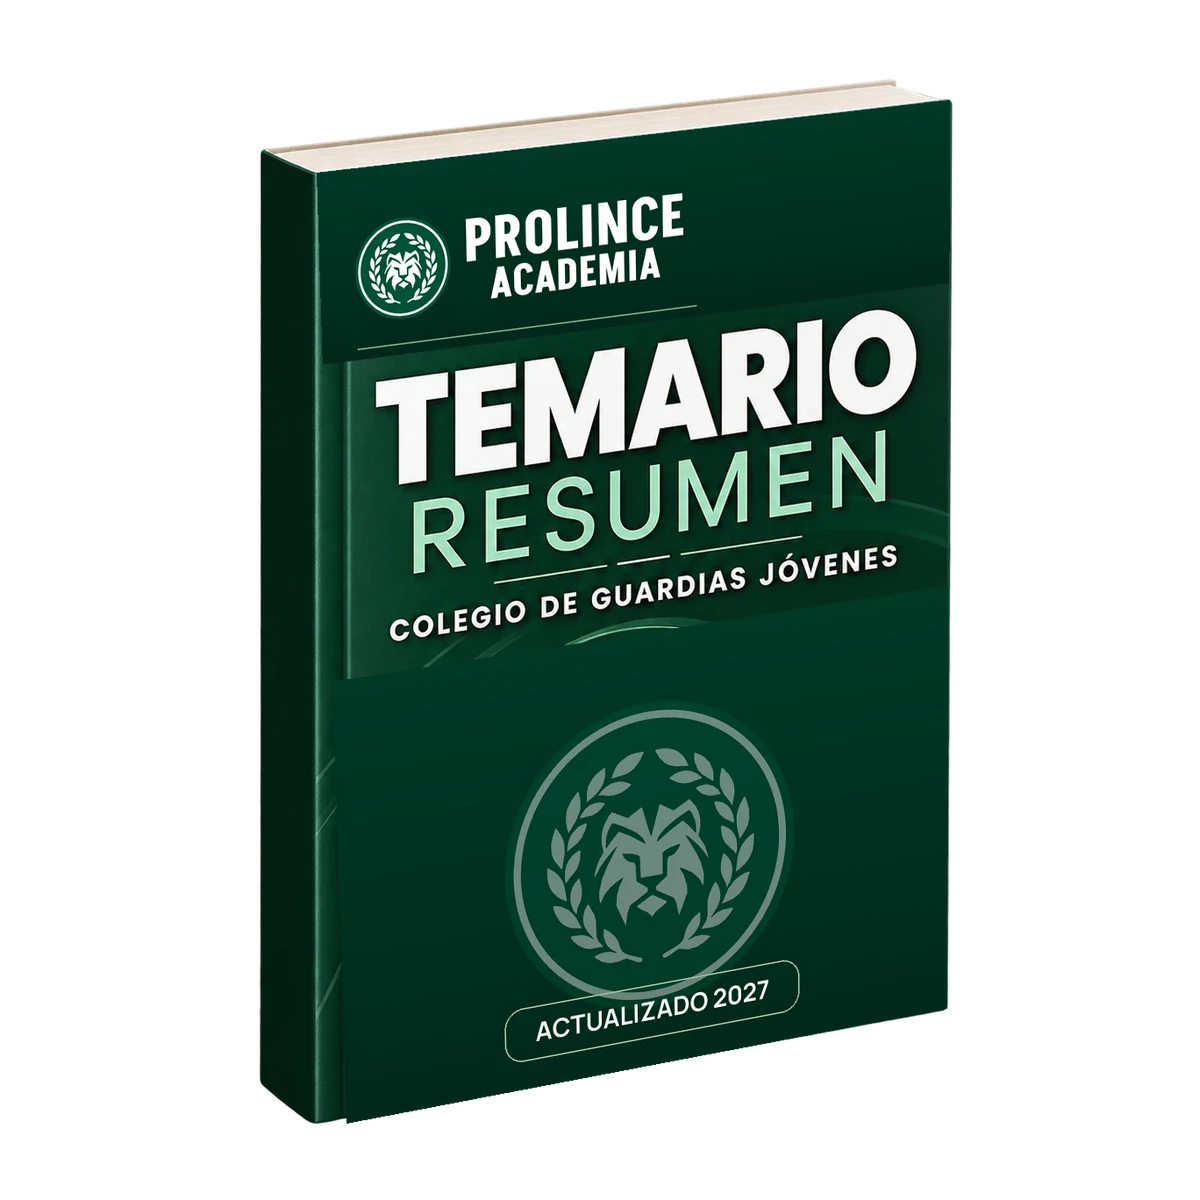
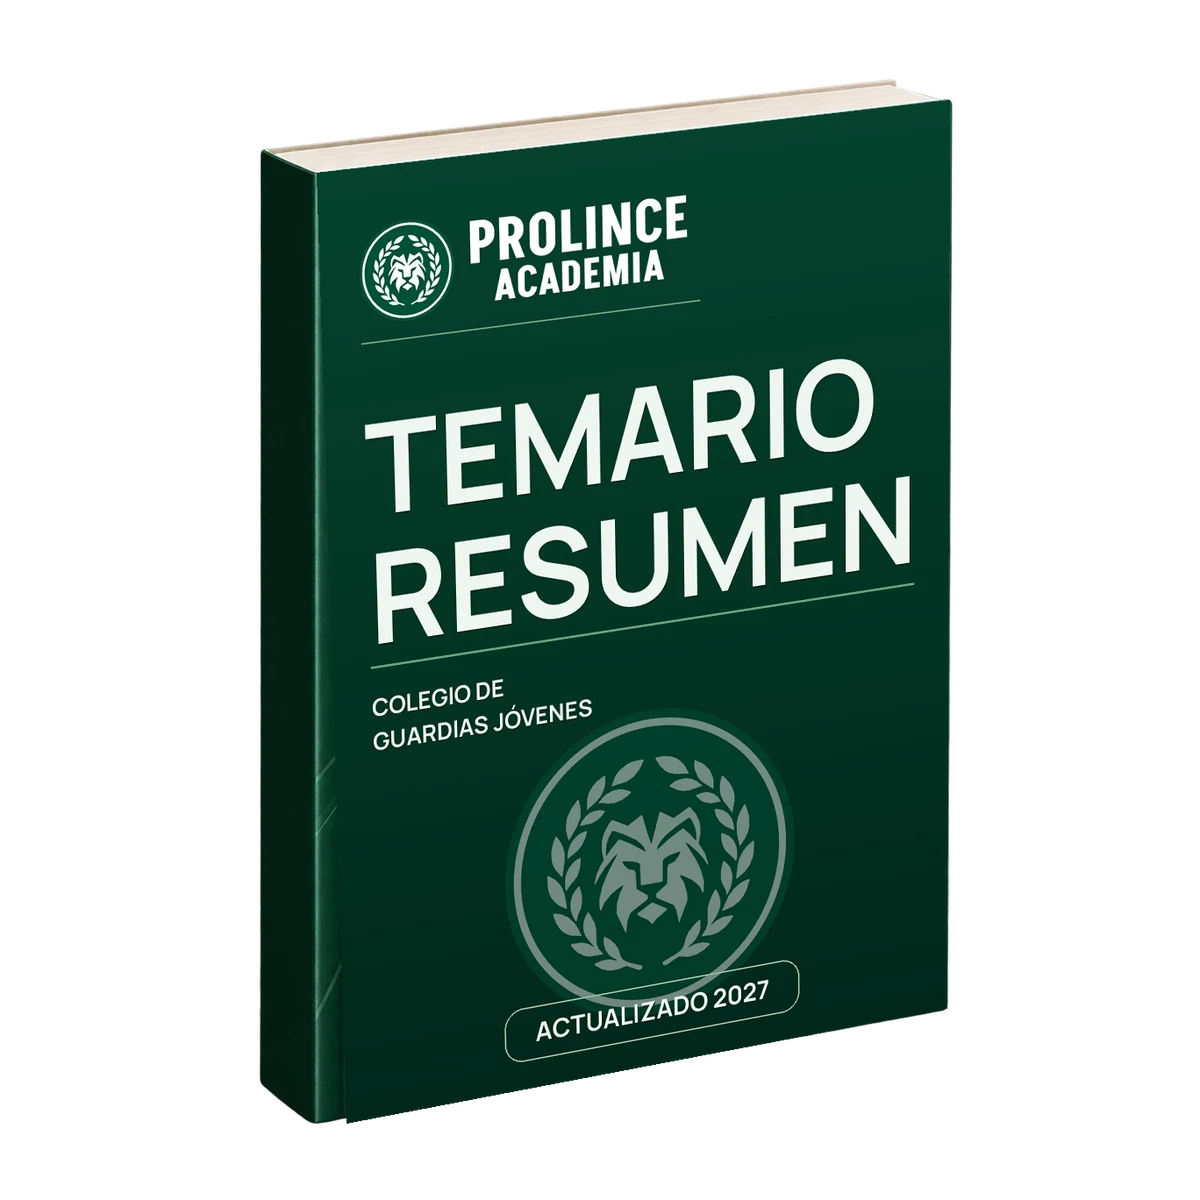
Recompone las cubiertas de temarios sin parches ni cortes visibles

Changed region(s): [[0.2775, 0.1542, 0.7708, 0.8633]]

diff --git a/scripts/generar-temarios-realistas.py b/scripts/generar-temarios-realistas.py
@@ -55,60 +55,83 @@ def perspective(source_size, target):
     return tuple(row[-1] for row in rows)
 
 
-def fondo(cubierta, top, bottom):
-    """Limpia la marca recreada; mantiene un degradado suave sobre el papel mate."""
-    draw = ImageDraw.Draw(cubierta)
-    for y in range(top, bottom):
-        t = (y - top) / max(1, bottom - top)
-        color = tuple(round(a * (1 - t) + b * t) for a, b in zip((0, 57, 39), (0, 40, 27)))
+def cubierta_provisional(kind, name, logo, isotipo):
+    """Una única cubierta continua: fondo, tipografía y marca comparten perspectiva."""
+    flat = Image.new('RGBA', (840, 1188))
+    draw = ImageDraw.Draw(flat)
+    for y in range(1188):
+        t = y / 1187
+        color = tuple(round(a * (1 - t) + b * t) for a, b in zip((5, 66, 46), (0, 39, 27)))
         draw.line((0, y, 839, y), fill=(*color, 255))
+
+    def font(size):
+        return ImageFont.truetype(str(SOURCES / 'Manrope-Bold.ttf'), size)
+
+    def label(x, y, value, size, anchor='la'):
+        draw.text((x + 1, y + 2), value, font=font(size), fill='#002A1D', anchor=anchor)
+        draw.text((x, y), value, font=font(size), fill='#EEF6F0', anchor=anchor)
+
+    if kind == 'resumen':
+        logo_x, logo_y, logo_w = 50, 65, 445
+        seal_x, seal_y, seal_w = 220, 720, 400
+        label(50, 255, 'TEMARIO', 156)
+        label(50, 415, 'RESUMEN', 156)
+        draw.line((50, 610, 790, 610), fill='#659D7B', width=3)
+        if name.startswith('gc-'):
+            label(50, 650, 'GUARDIA CIVIL', 34)
+        else:
+            label(50, 640, 'COLEGIO DE', 30)
+            label(50, 683, 'GUARDIAS JÓVENES', 30)
+        badge_x, badge_w, footer_size = 215, 410, 34
+    elif kind == 'ingles':
+        logo_x, logo_y, logo_w = 30, 65, 330
+        seal_x, seal_y, seal_w = 40, 700, 305
+        label(30, 270, 'TEMARIO', 78)
+        label(30, 370, 'INGLÉS', 78)
+        draw.line((30, 475, 360, 475), fill='#659D7B', width=2)
+        if name.startswith('gc-'):
+            label(30, 515, 'GUARDIA CIVIL', 28)
+        else:
+            label(30, 510, 'COLEGIO DE', 24)
+            label(30, 555, 'GUARDIAS JÓVENES', 24)
+        badge_x, badge_w, footer_size = 25, 335, 27
+    else:
+        logo_x, logo_y, logo_w = 535, 62, 280
+        seal_x, seal_y, seal_w = 550, 710, 260
+        # Se reduce el tamaño de fuente, nunca la anchura de las letras.
+        label(676, 270, 'ORTOGRAFÍA', 42, 'mm')
+        label(676, 340, 'Y GRAMÁTICA', 42, 'mm')
+        draw.line((530, 435, 820, 435), fill='#659D7B', width=2)
+        if name.startswith('gc-'):
+            label(676, 520, 'GUARDIA CIVIL', 24, 'mm')
+        else:
+            label(676, 500, 'COLEGIO DE', 23, 'mm')
+            label(676, 555, 'GUARDIAS JÓVENES', 22, 'mm')
+        badge_x, badge_w, footer_size = 530, 295, 23
+    flat.alpha_composite(logo.resize((logo_w, round(logo_w * logo.height / logo.width)), Image.Resampling.LANCZOS), (logo_x, logo_y))
+    seal = isotipo.resize((seal_w, seal_w), Image.Resampling.LANCZOS)
+    seal.putalpha(seal.getchannel('A').point(lambda a: round(a * .44)))
+    flat.alpha_composite(seal, (seal_x, seal_y))
+    draw = ImageDraw.Draw(flat)
+    draw.line((logo_x, 210 if kind == 'resumen' else 185 if kind == 'ingles' else 170,
+               logo_x + logo_w, 210 if kind == 'resumen' else 185 if kind == 'ingles' else 170), fill='#659D7B', width=2)
+    draw.rounded_rectangle((badge_x, 1080, badge_x + badge_w, 1150), radius=25, outline='#91BAA1', width=2)
+    label(badge_x + badge_w / 2, 1114, 'ACTUALIZADO 2027', footer_size, 'mm')
+    return flat
 
 
 def marca_oficial(image, name, logo, isotipo):
-    """Inserta los SVG oficiales; nunca vuelve a generar el león ni el wordmark."""
+    """Proyecta cada cubierta de una pieza; conserva cantos, lomos y sombras."""
     for plane, visible, kind in PROVISIONAL[name]:
-        quad = [plane[i] for i in (0, 3, 2, 1)]
-        flat = image.transform((840, 1188), Image.Transform.QUAD,
-            tuple(v for point in quad for v in point), Image.Resampling.BICUBIC)
-        mask = Image.new('L', flat.size)
-        mask_draw = ImageDraw.Draw(mask)
-        if kind == 'resumen':
-            header_bottom, lower_top = 230, 690 if name.startswith('gc-') else 620
-            logo_x, logo_y, logo_w = 45, 62, 445
-            seal_x, seal_y, seal_w = 220, 710, 400
-            badge_x, badge_w, font_size = 215, 410, 34
-        elif kind == 'ingles':
-            header_bottom, lower_top = 210, 610
-            logo_x, logo_y, logo_w = 30, 65, 330
-            seal_x, seal_y, seal_w = 35, 690, 310
-            badge_x, badge_w, font_size = 25, 335, 27
-        else:
-            header_bottom, lower_top = 180, 585
-            logo_x, logo_y, logo_w = 535, 62, 280
-            seal_x, seal_y, seal_w = 545, 700, 265
-            badge_x, badge_w, font_size = 530, 295, 23
-        fondo(flat, 0, header_bottom)
-        fondo(flat, lower_top, 1188)
-        flat.alpha_composite(logo.resize((logo_w, round(logo_w * logo.height / logo.width)), Image.Resampling.LANCZOS), (logo_x, logo_y))
-        seal = isotipo.resize((seal_w, seal_w), Image.Resampling.LANCZOS)
-        seal.putalpha(seal.getchannel('A').point(lambda a: round(a * .42)))
-        flat.alpha_composite(seal, (seal_x, seal_y))
-        draw = ImageDraw.Draw(flat)
-        draw.line((logo_x, header_bottom - 14, logo_x + logo_w, header_bottom - 14), fill='#699C7F', width=2)
-        draw.rounded_rectangle((badge_x, 1080, badge_x + badge_w, 1150), radius=25, outline='#91BAA1', width=2)
-        font = ImageFont.truetype(str(SOURCES / 'Manrope-Bold.ttf'), font_size)
-        draw.text((badge_x + badge_w / 2, 1114), 'ACTUALIZADO 2027', font=font, fill='#F2F8F4', anchor='mm')
-        # Solo se sustituyen cabecera y zona de emblema, conservando los títulos.
-        mask_draw.rectangle((0, 0, 839, header_bottom - 1), fill=255)
-        mask_draw.rectangle((0, lower_top, 839, 1187), fill=255)
+        flat = cubierta_provisional(kind, name, logo, isotipo)
         coeff = perspective(flat.size, plane)
         layer = flat.transform(image.size, Image.Transform.PERSPECTIVE, coeff, Image.Resampling.BICUBIC)
-        projected_mask = mask.transform(image.size, Image.Transform.PERSPECTIVE, coeff, Image.Resampling.BICUBIC)
+        mask = Image.new('L', flat.size, 255).transform(image.size, Image.Transform.PERSPECTIVE, coeff, Image.Resampling.BICUBIC)
         if visible:
             occlusion = Image.new('L', image.size)
             ImageDraw.Draw(occlusion).polygon(visible, fill=255)
-            projected_mask = ImageChops.multiply(projected_mask, occlusion)
-        image = Image.composite(layer, image, projected_mask)
+            mask = ImageChops.multiply(mask, occlusion)
+        image = Image.composite(layer, image, mask)
     return image
 
 

diff --git a/scripts/recursos/temarios/README.md b/scripts/recursos/temarios/README.md
@@ -13,9 +13,9 @@ Utiliza siempre los originales de `public/brand/prolince-logo.svg` y
 logotipo. Esta regla también está en `AGENTS.md`.
 
 Las bases WebP son escenas fotográficas intermedias: no deben publicarse
-directamente. El preparador sustituye la marca de todas las cubiertas provisionales
-por los SVG oficiales proyectados sobre el libro; conserva los títulos y la
-perspectiva. Manrope 700 se incluye con su licencia OFL para el pie de edición.
+directamente. El preparador compone cada cubierta provisional entera, con fondo continuo,
+tipografía y los SVG oficiales. Proyecta la cubierta una sola vez sobre el libro;
+conserva la perspectiva, los cantos, los lomos y las sombras de la escena. Manrope 700 se incluye con su licencia OFL para el pie de edición.
 
 Las portadas de inglés, ortografía y gramática y resumen son **provisionales**.
 Las portadas principales reales se componen por perspectiva desde
@@ -58,7 +58,7 @@ El título del libro trasero se ha compuesto con Manrope 700 a un tamaño natura
 más pequeño, sin escalar ni comprimir las letras. Se muestran las dos líneas
 exactas «ORTOGRAFÍA» y «Y GRAMÁTICA», completas y con márgenes. La única
 transformación es la perspectiva suave del plano físico de la cubierta.
-Las dos bases WebP incluyen esta corrección; no se generan sus textos con IA.
+El preparador compone los títulos con la fuente original; no se generan con IA.
 
 ## Orientación común hacia la derecha
 
